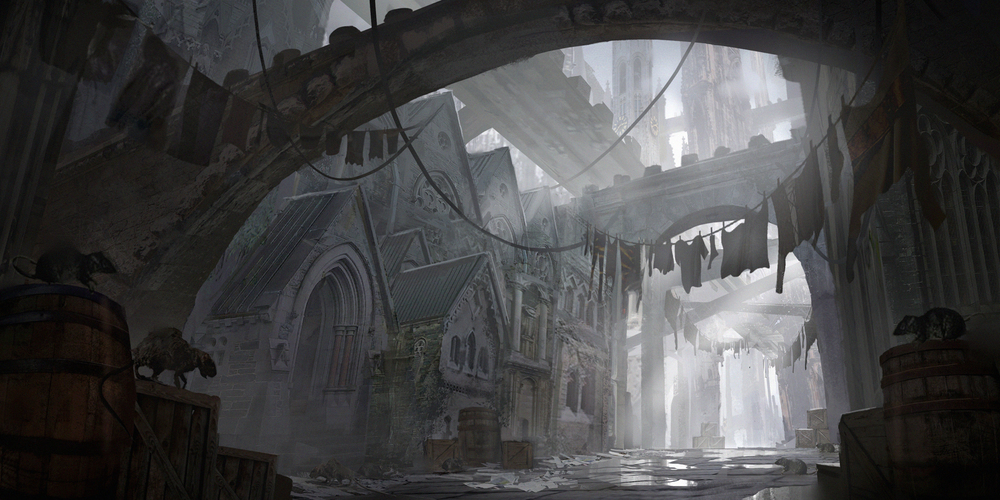
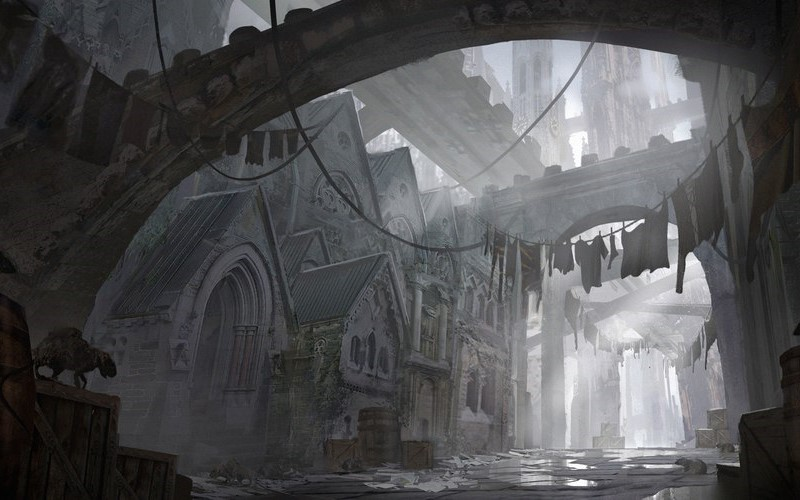
kuvia in the cash position

diff --git a/Student/mainwindow.cpp b/Student/mainwindow.cpp
@@ -302,22 +302,17 @@ void MainWindow::initializeLocations()
 
 void MainWindow::setupUserInterface()
 {
-    QPixmap castle(":/castle.jpg");
-    castle.scaled(80, 80, Qt::IgnoreAspectRatio);
-    QPixmap marketplace(":/marketplace.jpg");
-    QPixmap forest(":/forest.jpg");
-    QPixmap slums(":/slums.jpg");
+
 
     ui->setupUi(this);
     // Creating scenes to store items for example buttons for Agents
     scene_1 = new QGraphicsScene(ui->graphicsView);
-    scene_1->addPixmap(castle);
     scene_2 = new QGraphicsScene(ui->graphicsView_2);
-    //scene_2->addPixmap(marketplace);
+
     scene_3 = new QGraphicsScene(ui->graphicsView_3);
-    //scene_3->addPixmap(forest);
+
     scene_4 = new QGraphicsScene(ui->graphicsView_4);
-    //scene_4->addPixmap(slums);
+
     scene_actions = new QGraphicsScene(ui->graphicsView_actions);
     scene_hand = new QGraphicsScene(ui->graphicsView_hand);
 
@@ -332,6 +327,26 @@ void MainWindow::setupUserInterface()
     ui->graphicsView_4->setAlignment(Qt::AlignCenter);
     ui->graphicsView_actions->setScene(scene_actions);
     ui->graphicsView_actions->setAlignment(Qt::AlignTop);
+    QPixmap castle(":/castle.jpg");
+    QPixmap marketplace(":/marketplace.jpg");
+    QPixmap forest(":/forest.jpg");
+    QPixmap slums(":/slums.jpg");
+
+    castle.setDevicePixelRatio(0.15);
+    scene_1->addPixmap(castle);
+    ui->graphicsView->fitInView(castle.rect(), Qt::KeepAspectRatio);
+
+    marketplace.setDevicePixelRatio(0.15);
+    scene_2->addPixmap(marketplace);
+    ui->graphicsView_2->fitInView(marketplace.rect(), Qt::KeepAspectRatio);
+
+    forest.setDevicePixelRatio(0.15);
+    scene_3->addPixmap(forest);
+    ui->graphicsView_3->fitInView(forest.rect(), Qt::KeepAspectRatio);
+
+    slums.setDevicePixelRatio(0.15);
+    scene_4->addPixmap(slums);
+    ui->graphicsView_4->fitInView(slums.rect(), Qt::KeepAspectRatio);
 
     ui->graphicsView_hand->setScene(scene_hand);
 }
